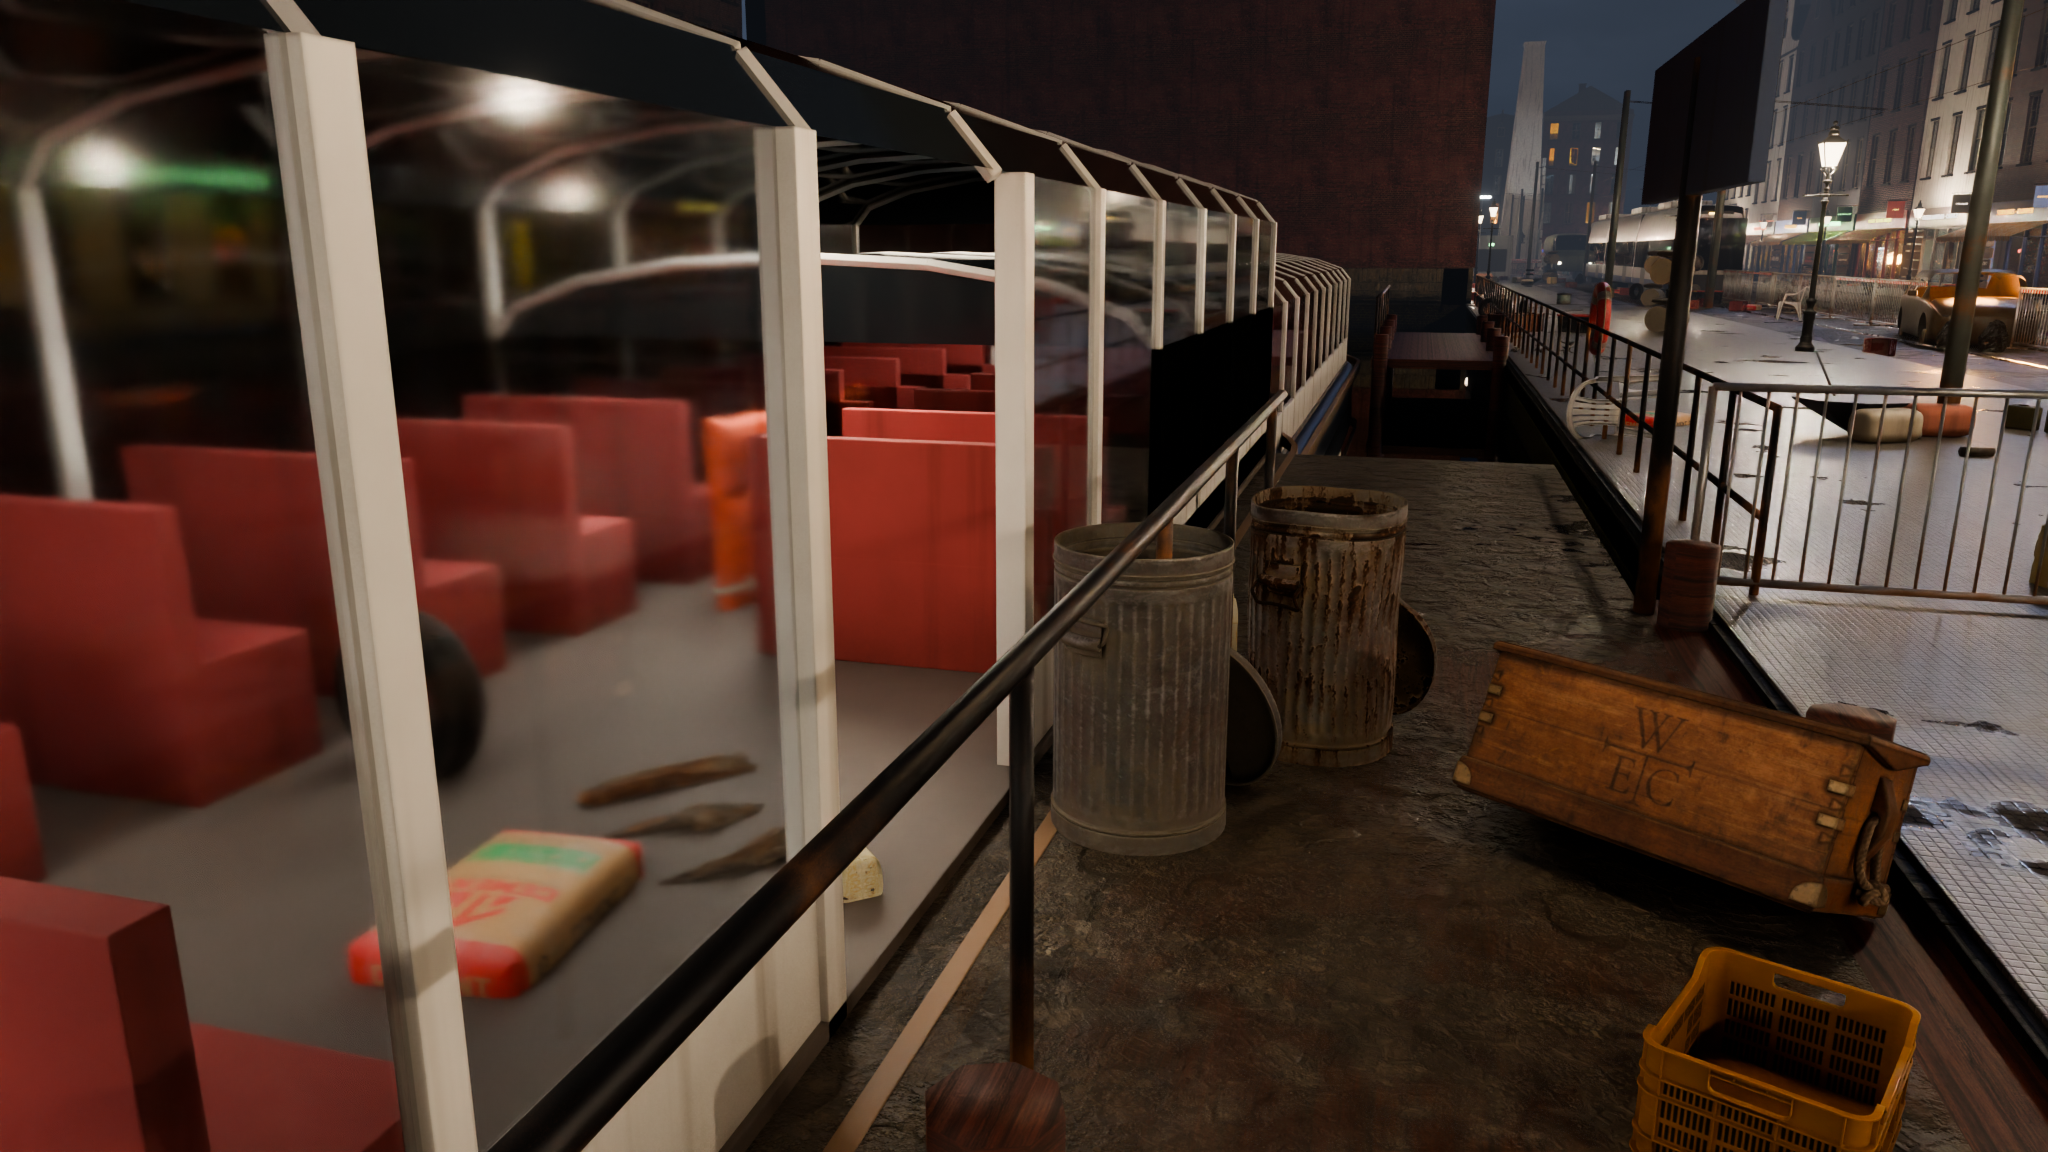
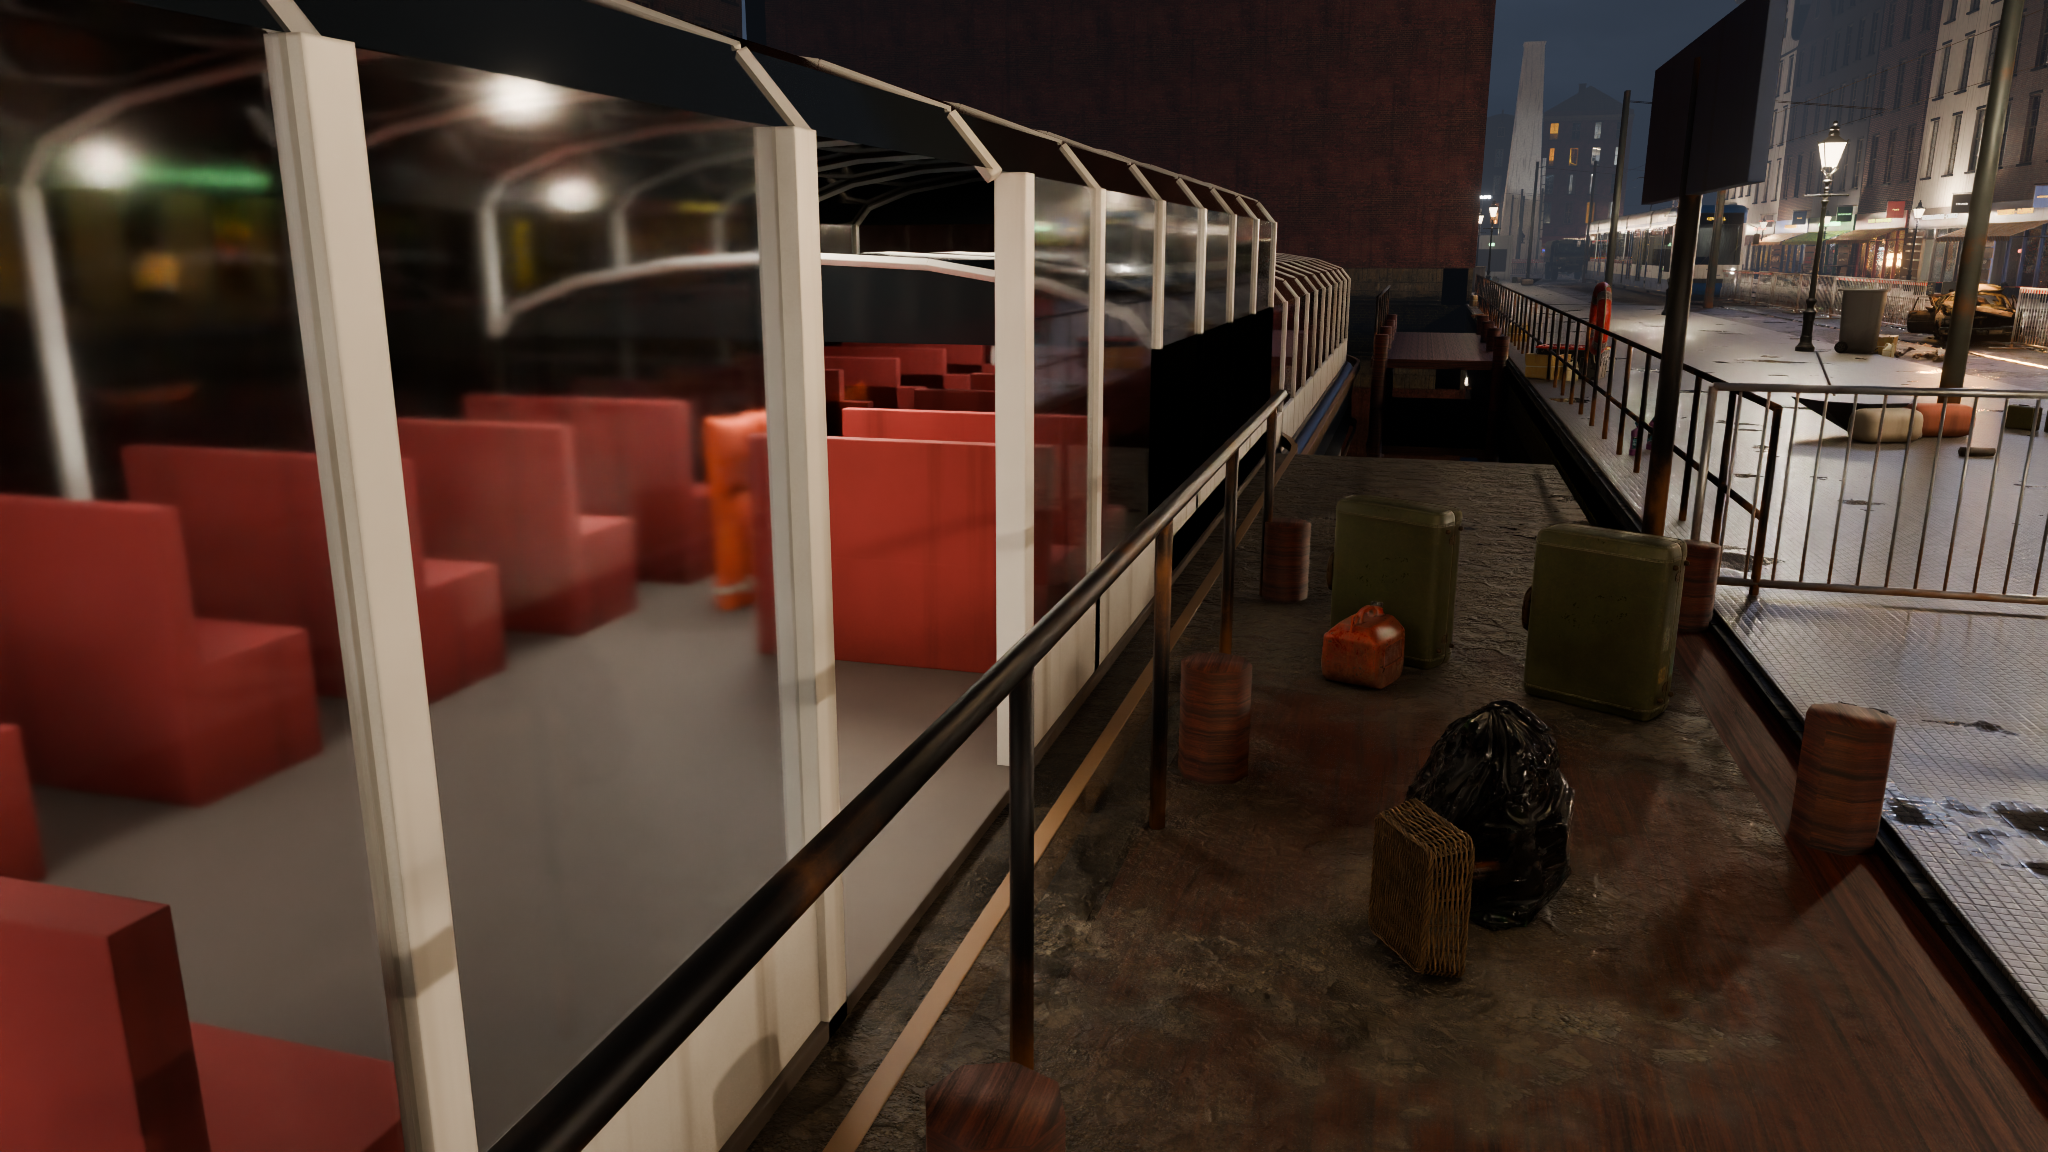
Plates: rondvaartboot re-rendered at 2048x1152 (the second look: the tour boat re-dressed, belongings left on its landing stage)
Claude-Session: https://claude.ai/code/session_018Fg2TGhREH4MYXioixRmNn

diff --git a/tools/citygen/catastrophe.py b/tools/citygen/catastrophe.py
@@ -374,13 +374,13 @@ AUTO = {"apotheek", "beurs_zaal", "bioscoop", "bloemenmarkt", "centraal_hal", "d
 
 STORIES = {"rokin_zuid": rokin_zuid, "rokin_noord": rokin_noord, "dam": dam, "stationsplein": stationsplein}
 ACTIVE = {"dam", "rokin_noord", "rokin_zuid", "stationsplein"}   # the hand-told streets whose plates are rendered (others wait for theirs)
-DRESSED = {"apotheek", "beurs_zaal", "bioscoop", "bloemenmarkt", "centraal_hal", "dam", "damrak_noord", "damrak_zuid", "herengracht", "hotel_bar", "hotel_lobby", "kalversteeg", "kalverstraat", "kalverstraat_noord", "metro_centraal", "metro_rokin", "muntplein", "nieuwe_kerk", "reguliersbreestraat", "rembrandtplein", "rokin_noord", "rokin_zuid", "station_noord", "stationsplein", "thorbeckeplein", "warenhuis"}   # the rooms whose plates show dress() (the night's leavings by what each place was), not the old scatter
+DRESSED = {"apotheek", "beurs_zaal", "bioscoop", "bloemenmarkt", "centraal_hal", "dam", "damrak_noord", "damrak_zuid", "herengracht", "hotel_bar", "hotel_lobby", "kalversteeg", "kalverstraat", "kalverstraat_noord", "metro_centraal", "metro_rokin", "muntplein", "nieuwe_kerk", "reguliersbreestraat", "rembrandtplein", "rokin_noord", "rokin_zuid", "rondvaartboot", "station_noord", "stationsplein", "thorbeckeplein", "warenhuis"}   # the rooms whose plates show dress() (the night's leavings by what each place was), not the old scatter
 for _r in filter(None, __import__("os").environ.get("DW_DRESSED", "").split(",")):
     DRESSED.add(_r)
 # The rooms whose plates show the second look (2026-11): the Amsterdam tram's five sections, wheelie
 # bins for dustbins. A room joins in the commit that brings its re-rendered plates. DW_LOOK2=a,b,...
 # adds rooms for a build of the next ones to render (into a scratch DW_ROOMS).
-LOOK2 = {"apotheek", "beurs_zaal", "bioscoop", "bloemenmarkt", "centraal_hal", "dam", "damrak_noord", "damrak_zuid", "herengracht", "hotel_bar", "hotel_lobby", "kalversteeg", "kalverstraat", "kalverstraat_noord", "metro_centraal", "metro_rokin", "muntplein", "nieuwe_kerk", "reguliersbreestraat", "rembrandtplein", "rokin_noord", "rokin_zuid", "station_noord", "stationsplein", "thorbeckeplein", "warenhuis"}
+LOOK2 = {"apotheek", "beurs_zaal", "bioscoop", "bloemenmarkt", "centraal_hal", "dam", "damrak_noord", "damrak_zuid", "herengracht", "hotel_bar", "hotel_lobby", "kalversteeg", "kalverstraat", "kalverstraat_noord", "metro_centraal", "metro_rokin", "muntplein", "nieuwe_kerk", "reguliersbreestraat", "rembrandtplein", "rokin_noord", "rokin_zuid", "rondvaartboot", "station_noord", "stationsplein", "thorbeckeplein", "warenhuis"}
 for _r in filter(None, __import__("os").environ.get("DW_LOOK2", "").split(",")):
     LOOK2.add(_r)
 BINS = ["sf:bin_green", "sf:bin_blue", "sf:bin_orange"]   # licensed models (tools/assets/models.json): what Amsterdam puts out, not a film's dustbin
@@ -473,6 +473,7 @@ INDOORS = {   # a hall's or a shop's use that night: by which of its things, wha
 USE = {"nieuwe_kerk": "shelter", "centraal_hal": "shelter", "beurs_zaal": "shelter", "metro_centraal": "shelter",
        "metro_rokin": "shelter", "warenhuis": "shop", "apotheek": "shop", "bioscoop": "lobby", "hotel_lobby": "lobby",
        "hotel_bar": "bar", "rondvaartboot": "shelter"}
+CABINS = {"rondvaartboot"}   # rooms that are one narrow cabin and its landing (the tour boat): belongings dropped where people got off
 STOPS = {"vehicle", "bus", "tram", "tram_section", "light_tower", "evac_board", "kiosk", "bench", "sandbags", "aid_post"}
 SETTLE = {"model", "bike", "luggage", "leaflets", "broken_glass", "body_bag", "sandbags", "blood", "scorch", "evac_board",
           "fire_pump", "boards", "trestle_table"}   # things that rest on the street: on the pavement where they stand
@@ -574,7 +575,7 @@ def dress(spec, rng):
                 if put(BINS[int(rng.integers(len(BINS)))] if look2 else "ph:metal_trash_can", x + 0.55 * math.cos(a), z + 0.55 * math.sin(a), 0.4 if look2 else 0.35,
                        tip=None if look2 and rng.random() < 0.5 else 90):
                     put("ph:trashbag", x + 1.1 * math.cos(a), z + 1.1 * math.sin(a), 0.3)
-    else:
+    if not outdoor or spec["id"] in USE:   # (a boat at its pier is out of doors, but it was a shelter all the same)
         # 5. indoors: what the night's use of the hall left by its beds, tables and counters
         for p in spec["props"]:
             for near, things, often in INDOORS.get(USE.get(spec["id"], ""), []):
@@ -587,6 +588,16 @@ def dress(spec, rng):
                     lx, lz = math.cos(side) * (p["size"][0] / 2 + 0.7), math.sin(side) * (p["size"][2] / 2 + 0.7)
                     if put(ref, p["pos"][0] + lx * math.cos(a) + lz * math.sin(a), p["pos"][2] - lx * math.sin(a) + lz * math.cos(a), 0.3, tip=tip):
                         break
+    if spec["id"] in CABINS:   # what people carried off the boat, dropped where they landed: on wide floor, never in the one-person aisle
+        wide = ok.copy()
+        for di in (-2, -1, 1, 2):
+            for dk in (-2, -1, 1, 2):
+                wide &= np.roll(np.roll(ok, di, axis=0), dk, axis=1)
+        wide[:2, :] = wide[-2:, :] = wide[:, :2] = wide[:, -2:] = False
+        cells = np.argwhere(wide)
+        for _ in range(3 if len(cells) else 0):
+            i, k = cells[int(rng.integers(len(cells)))]
+            clump(float(xs[i]), float(zs[k]), BELONGINGS, int(rng.integers(1, 3)), 0.6)
     # 4. what people dropped on their way out: belongings near the doors they left by
     exits = [(i["pos"][0], i["pos"][2]) for i in spec.get("interactables", []) if i.get("kind") in ("door", "end")]
     for ex, ez in exits:
